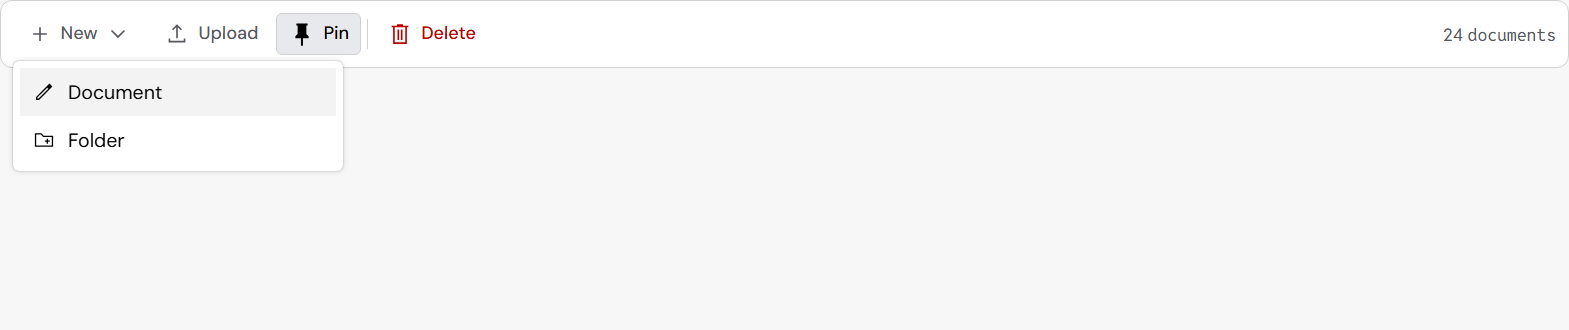
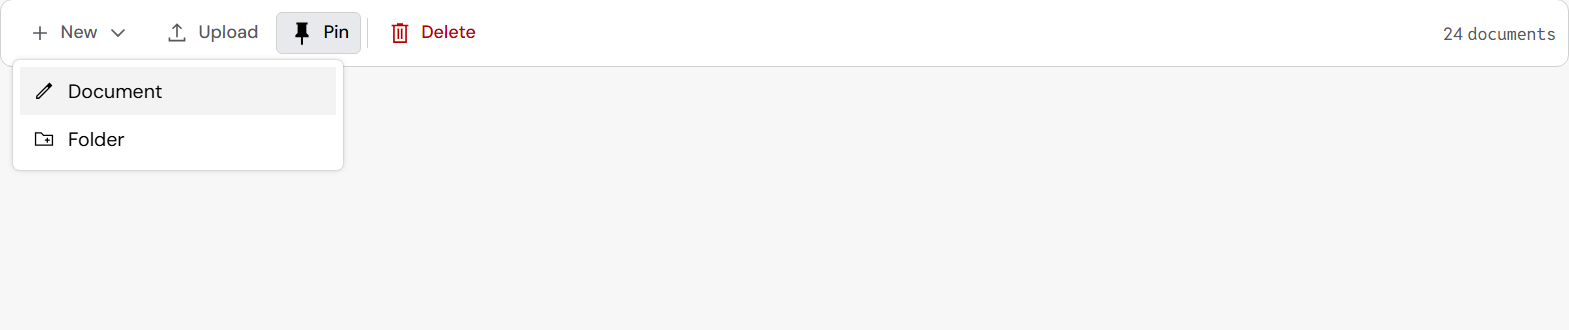
Buttons before/after: the 4px corner on fields, selects, comboboxes, nav items and a menu (#298, #299)
The control corner is shared, so the review page now shows a form row, a nav list and an
open menu before and after, with each corner measured: inputs, selects, comboboxes and nav
items go from 6px to 4px; the menu (4px) and its items (0px) do not change.

diff --git a/docs/briefs/buttons-fluent/capture.js b/docs/briefs/buttons-fluent/capture.js
@@ -1,7 +1,8 @@
 /* Before/after pictures for PR 1 (buttons in the Fluent look, #298). Usage:
      node docs/briefs/buttons-fluent/capture.js <before-root> <after-root>
    Each root is a checkout of the repository (before: styling/phase-2; after: this branch, built). Both are served the
-   same way and photographed at a real 150% screen scale (the owner's screen): the sample's buttons, its command bar with
+   same way and photographed at a real 150% screen scale (the owner's screen): the sample's buttons, its other controls
+   (form row, nav list, an open menu: they share the control corner), its command bar with
    the New menu open, and the Messages header. The pictures land next to this script. */
 const fs = require('fs'), path = require('path'), http = require('http');
 const puppeteer = require('puppeteer-core');
@@ -31,6 +32,20 @@ const box = (el) => el.evaluate((e) => { const r = e.getBoundingClientRect(); re
         await page.goto(base + 'docs/briefs/buttons-fluent/sample.html', { waitUntil: 'domcontentloaded' });
         await page.waitForSelector('#bar .plx-command-bar'); await sleep(800);
         await page.screenshot({ path: path.join(__dirname, name + '-buttons.png'), clip: await box(await page.$('#buttons')) });
+        // the controls that share the control corner: a form row, a nav list and a menu, open, its first item hovered
+        const mt = await (await page.$('#menu button')).boundingBox(); await page.mouse.click(mt.x + mt.width / 2, mt.y + mt.height / 2); await sleep(400);
+        const mi = await (await page.$('#menu [role="menuitem"]')).boundingBox(); await page.mouse.move(mi.x + mi.width / 2, mi.y + mi.height / 2); await sleep(300);
+        await page.screenshot({ path: path.join(__dirname, name + '-controls.png'), clip: await box(await page.$('#controls')) });
+        const radii = await page.evaluate(() => {
+          const r = (sel) => { const e = document.querySelector(sel); return e ? getComputedStyle(e).borderTopLeftRadius : 'not found'; };
+          const field = (label) => { const f = [...document.querySelectorAll('#controls label')].find((l) => l.textContent.trim() === label);
+            const c = f && f.closest('.plx-field'); const box = c && [...c.querySelectorAll('*')].find((e) => parseFloat(getComputedStyle(e).borderTopWidth) > 0);
+            return box ? getComputedStyle(box).borderTopLeftRadius : 'not found'; };
+          return { button: r('#buttons .plx-button'), input: field('Title'), select: field('Format'), combobox: field('Owner'),
+            navItem: r('#controls .plx-nav-list__item, #controls [aria-current]'), menu: r('#menu .plx-menu'), menuItem: r('#menu [role="menuitem"]') };
+        });
+        console.log(name, JSON.stringify(radii));
+        await page.keyboard.press('Escape'); await page.mouse.click(2, 2); await sleep(300);
         const trigger = await page.evaluateHandle(() => [...document.querySelectorAll('#bar button')].find((b) => /^New/.test(b.textContent.trim())));
         const t = await trigger.boundingBox(); await page.mouse.click(t.x + t.width / 2, t.y + t.height / 2); await sleep(400);
         const item = await page.$('.plx-menu [role="menuitem"]'); const ib = await item.boundingBox();

diff --git a/docs/briefs/buttons-fluent/sample.html b/docs/briefs/buttons-fluent/sample.html
@@ -17,6 +17,7 @@
 .bf-label{color:var(--plx-sys-content-muted);font-size:var(--plx-ref-font-size-12);margin:0;}
 .bf-bar{min-block-size:var(--plx-ref-size-220px,13.75rem);}
 .bf-field{max-inline-size:var(--plx-ref-size-320px,20rem);}
+.bf-menu{min-block-size:var(--plx-ref-size-160px,10rem);}
 </style>
 </head>
 <body class="rv-page">
@@ -38,6 +39,16 @@
         h(P.SplitButton, { variant: 'primary', icon: 'save', label: 'Save', onClick: noop }, h(P.MenuItem, { onSelect: noop }, 'Save a copy')),
         h(P.ButtonGroup, { label: 'Transfer' }, B({}, 'Import'), B({}, 'Export'))),
       h('div', { className: 'bf-field' }, h(P.Field, { label: 'Name' }, h(P.Input, { defaultValue: 'Website relaunch' })))),
+    // the other controls that share the control corner (radius-control): a form row, a nav list and a menu
+    h('section', { className: 'rv-stage', id: 'controls' },
+      h('div', { className: 'bf-row' },
+        h('div', { className: 'bf-field' }, h(P.Field, { label: 'Title' }, h(P.Input, { defaultValue: 'Quarterly report' }))),
+        h('div', { className: 'bf-field' }, h(P.Field, { label: 'Format' }, h(P.Select, { defaultValue: 'pdf', options: [{ value: 'pdf', label: 'PDF' }, { value: 'docx', label: 'Word' }] }))),
+        h('div', { className: 'bf-field' }, h(P.Field, { label: 'Owner' }, h(P.Combobox, { label: 'Owner', value: 'mc', onChange: noop, options: [{ value: 'mc', label: 'Maya Chen' }, { value: 'jt', label: 'Jeff Torres' }] })))),
+      h('div', { className: 'bf-row' },
+        h('div', { className: 'bf-field' }, h(P.NavList, { label: 'Folders', value: 'inbox', onSelect: noop, items: [{ id: 'inbox', label: 'Inbox', icon: 'mail' }, { id: 'archive', label: 'Archive', icon: 'archive' }, { id: 'shared', label: 'Shared', icon: 'share' }] })),
+        h('div', { className: 'bf-menu', id: 'menu' }, h(P.Menu, { label: 'Actions', trigger: B({ caret: true }, 'Actions') },
+          h(P.MenuItem, { icon: 'edit', onSelect: noop }, 'Rename'), h(P.MenuItem, { icon: 'copy', onSelect: noop }, 'Duplicate'), h(P.MenuItem, { icon: 'trash', danger: true, onSelect: noop }, 'Delete'))))),
     h('section', { className: 'bf-bar', id: 'bar' },
       h(P.CommandBar, { label: 'Documents', count: '24 documents', position: 'static',
         actions: [{ id: 'new', label: 'New', icon: 'plus', items: [{ id: 'doc', label: 'Document', icon: 'edit', onSelect: noop }, { id: 'folder', label: 'Folder', icon: 'folder-add', onSelect: noop }] },

diff --git a/docs/briefs/buttons-fluent/index.html b/docs/briefs/buttons-fluent/index.html
@@ -18,7 +18,7 @@
   <section class="rv-section">
     <h2 class="rv-h2">What changes</h2>
     <ul class="rv-list">
-      <li>Corners are 4px on every control (buttons, fields, selects), in every density. This and the lighter border fix the corner that looked cut.</li>
+      <li>Corners are 4px on every control (buttons, fields, selects, comboboxes, navigation items), in every density. This and the lighter border fix the corner that looked cut.</li>
       <li>The default button’s border is light gray (gray-300), one step darker on hover (gray-350).</li>
       <li>Hover and pressed fills are the same light grays at every size.</li>
       <li>Selected and toggled-on buttons are gray with dark text, not pale blue.</li>
@@ -33,6 +33,20 @@
     <div class="rv-pair">
       <figure class="rv-fig"><img src="before-buttons.png" alt="Buttons before"><figcaption>Before</figcaption></figure>
       <figure class="rv-fig"><img src="after-buttons.png" alt="Buttons after"><figcaption>After</figcaption></figure>
+    </div>
+  </section>
+
+  <section class="rv-section">
+    <h2 class="rv-h2">The 4px corner reaches every control, not only buttons</h2>
+    <p class="rv-lead">Buttons share one corner setting with the other controls, so this change moves them too. Measured on the live components:</p>
+    <ul class="rv-list">
+      <li>Changes from 6px to 4px: buttons, text fields, selects, comboboxes, navigation items (and every other control on the same setting).</li>
+      <li>Stays the same: the menu (4px) and its items (square, 0px). Their corners come from the menu, not from the control setting; the command bar step gives menu items their own 4px corners.</li>
+      <li>Compact density was already 4px, so nothing changes there.</li>
+    </ul>
+    <div class="rv-pair">
+      <figure class="rv-fig"><img src="before-controls.png" alt="Form row, navigation and menu before"><figcaption>Before: 6px fields, selects, combobox and navigation items</figcaption></figure>
+      <figure class="rv-fig"><img src="after-controls.png" alt="Form row, navigation and menu after"><figcaption>After: 4px; the menu unchanged</figcaption></figure>
     </div>
   </section>
 
